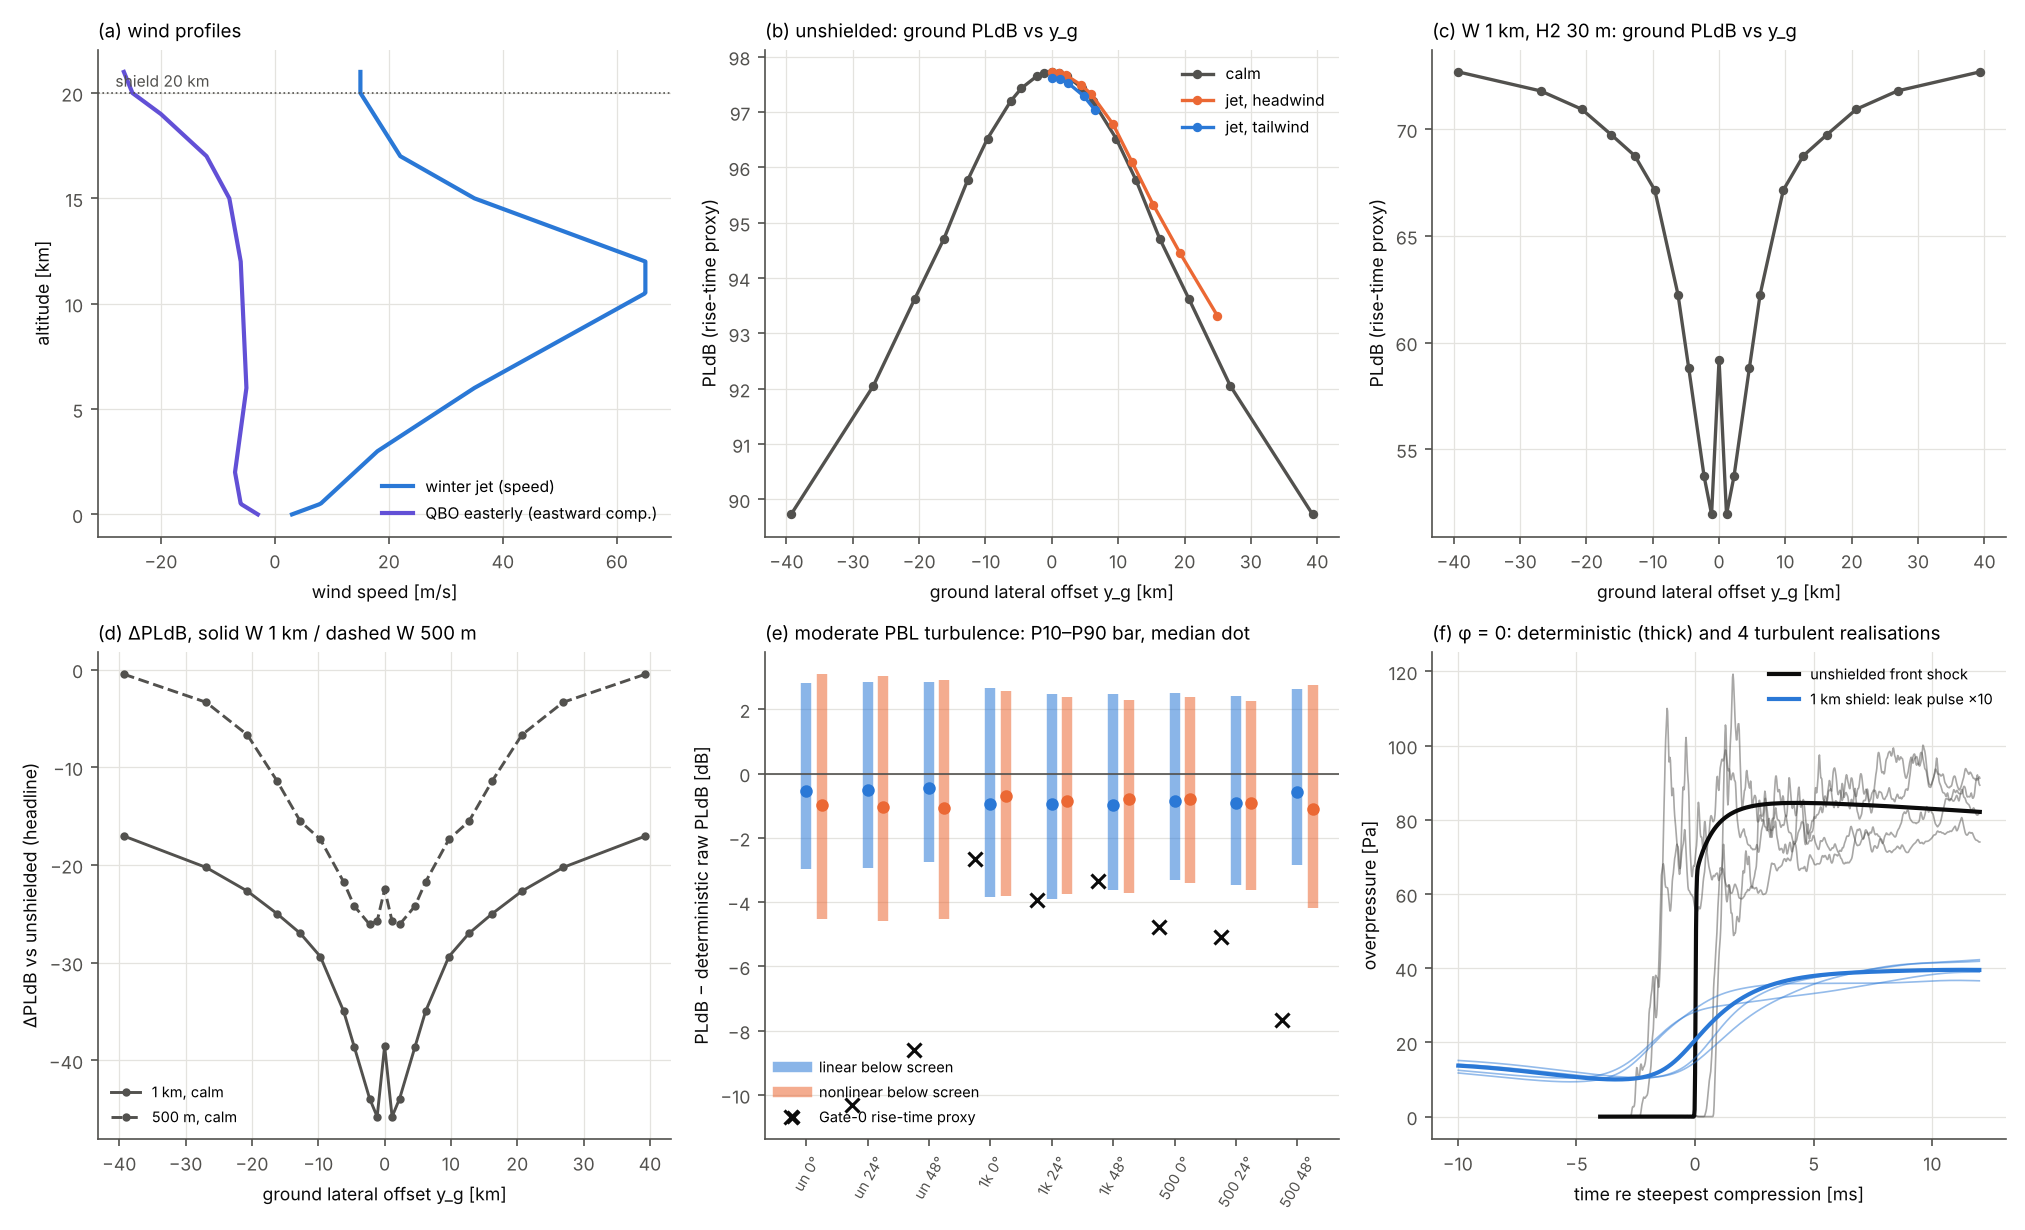
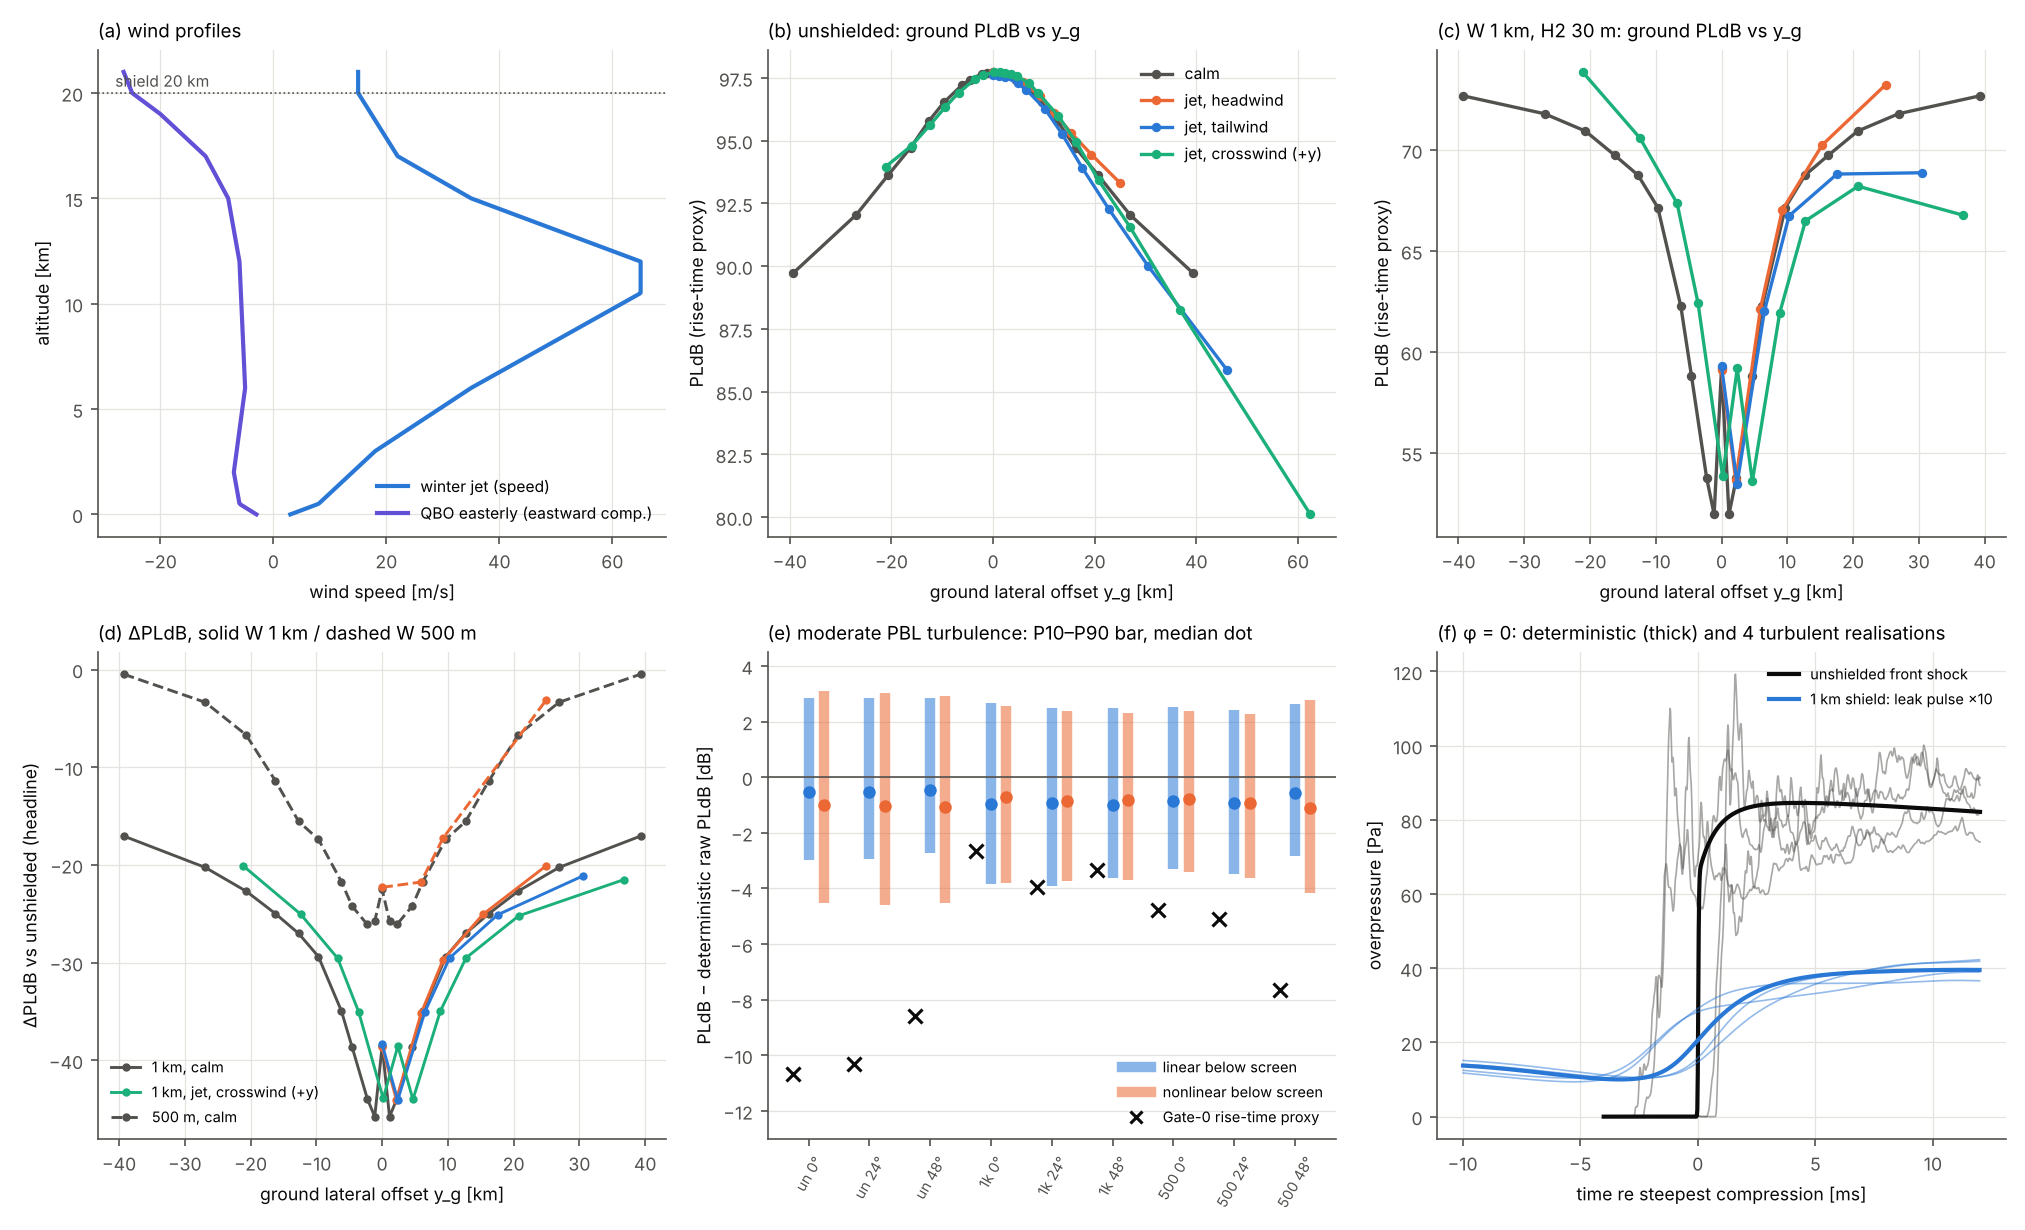
WIP: snapshot of in-progress sub-agent work
Claude-Session: https://claude.ai/code/session_01RbnYLXCK3HPi4Bm69kAxad

diff --git a/boom-shield/sim/run_wind_turbulence.py b/boom-shield/sim/run_wind_turbulence.py
@@ -61,7 +61,7 @@ CASES = {
 CASE_LABEL = {"calm": "calm", "jet_head": "jet, headwind", "jet_tail": "jet, tailwind",
               "jet_cross": "jet, crosswind (+y)", "qbo_head": "QBO easterly, headwind"}
 PHI_SH = [0.0, 6.0, 16.0, 24.0, 36.0, 48.0]                 # shielded configs
-PHI_W500 = [0.0, 16.0, 24.0, 48.0]                          # (cost: W 500 m runs are slowest)
+PHI_W500 = [0.0, 16.0, 24.0, 48.0]          # W 500 m runs are slowest (cross: -24, -48 added)
 PHI_UN = [0.0, 3.0, 6.0, 12.0, 16.0, 24.0, 30.0, 36.0, 42.0, 48.0, 54.0]
 TURB_PHI = [0.0, 24.0, 48.0]
 Z_SCREEN = 500.0
@@ -173,7 +173,8 @@ def phis_for(cfgkey, case):
     if cfgkey == "none" and case == "qbo_head":
         base = PHI_SH
     if case == "jet_cross":
-        return [-p for p in base[::-1] if p > 0] + base
+        neg = [p for p in base if p > 0] if cfgkey != "W500" else [24.0, 48.0]
+        return [-p for p in neg[::-1]] + base
     return base
 
 
@@ -258,6 +259,8 @@ def frame_table():
 def run_frame():
     for cfgkey in ("W1000", "W500"):
         for dV, tag in ((-15.0, "frame_m15"), (15.0, "frame_p15"), (-60.0, "frame_m60"), (60.0, "frame_p60")):
+            if cfgkey == "W500" and abs(dV) > 20:
+                continue
             for ph in (0.0,):
                 wind_job(cfgkey, "calm", ph, spec_factor=frame_transfer(cfgkey, dV), tag=tag)
 
